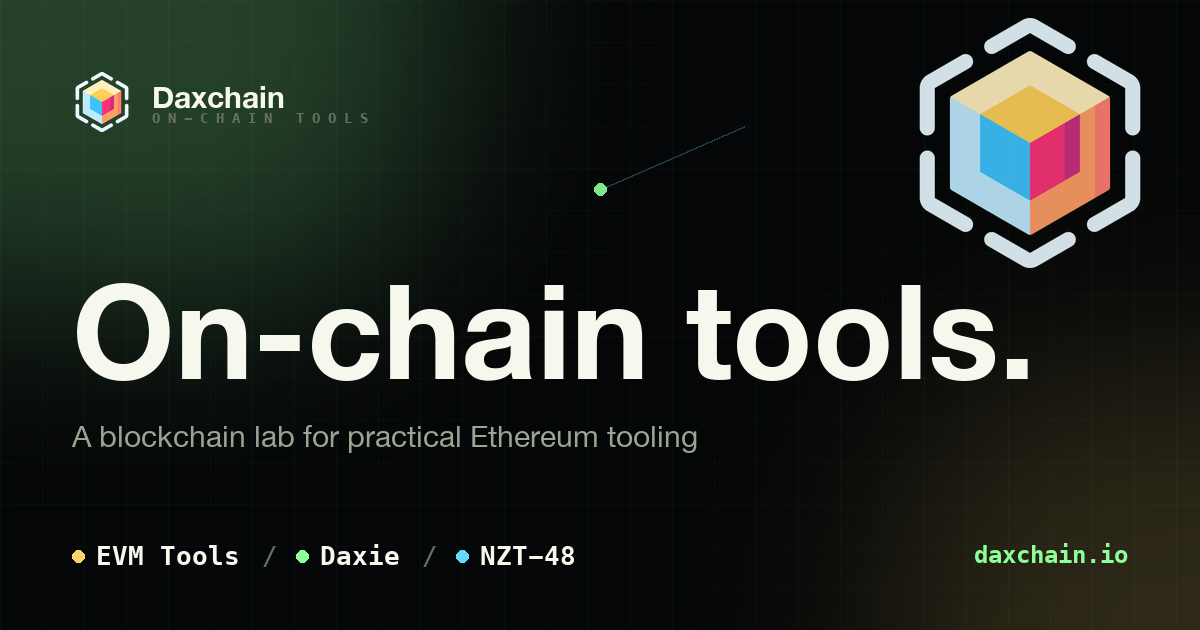
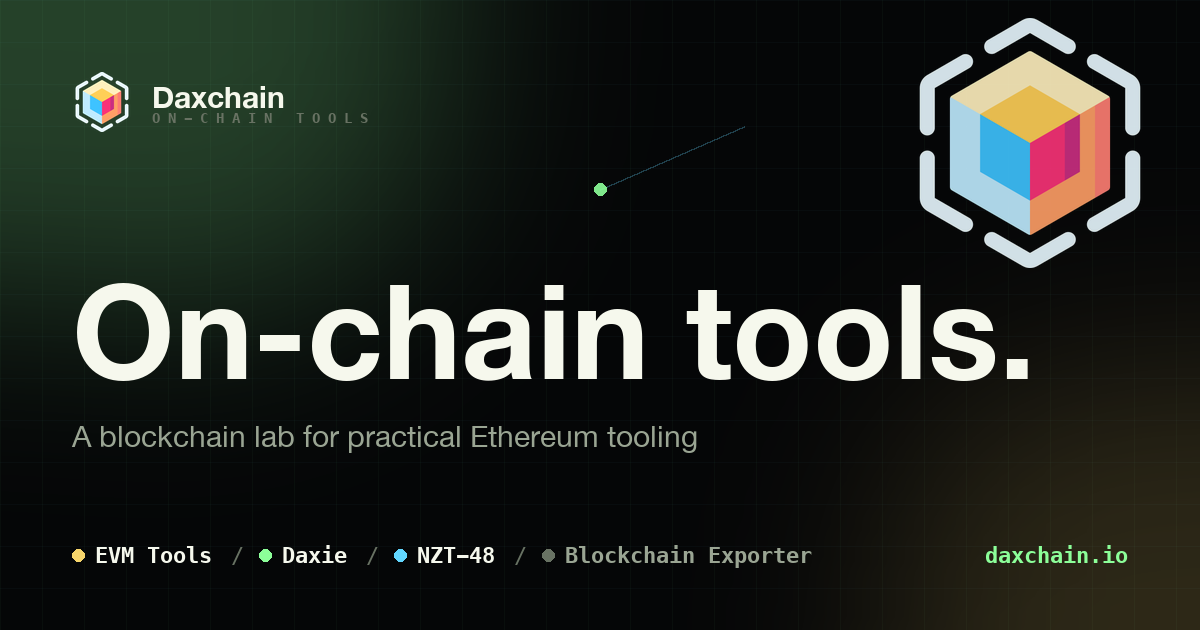
Surface Blockchain Exporter in social card and meta descriptions
Add the deprecated project everywhere it was previously omitted: a
fourth (muted) chip on the og-image social card, and the meta/OG/Twitter
descriptions plus og:image:alt. Keeps it visible to visitors and
crawlers while reading as the de-emphasized, deprecated one.

Changed region(s): [[0.0617, 0.8444, 0.6783, 0.9048], [0.8017, 0.8746, 0.9558, 0.9048]]

diff --git a/index.html b/index.html
@@ -6,7 +6,7 @@
     <title>Daxchain | EVM Tools, Daxie and NZT-48</title>
     <meta
       name="description"
-      content="Daxchain is a blockchain lab building practical Ethereum tooling: EVM Tools for on-chain observability, the Daxie wallet for AI agents, and the NZT-48 token."
+      content="Daxchain is a blockchain lab building practical Ethereum tools: EVM Tools, the AI-agent Daxie wallet, the NZT-48 token, and the deprecated Blockchain Exporter."
     >
     <link rel="canonical" href="https://daxchain.io/">
     <link rel="icon" href="/logo.png" type="image/png" sizes="any">
@@ -16,7 +16,7 @@
     <meta property="og:title" content="Daxchain | EVM Tools, Daxie and NZT-48">
     <meta
       property="og:description"
-      content="A small blockchain lab building practical Ethereum tooling — EVM Tools, the Daxie wallet for AI agents, and the NZT-48 token experiment."
+      content="A small blockchain lab building practical Ethereum tooling — EVM Tools, the Daxie wallet for AI agents, the NZT-48 token experiment, and the deprecated Blockchain Exporter."
     >
     <meta property="og:type" content="website">
     <meta property="og:url" content="https://daxchain.io/">
@@ -24,10 +24,10 @@
     <meta property="og:image" content="https://daxchain.io/og-image.png">
     <meta property="og:image:width" content="1200">
     <meta property="og:image:height" content="630">
-    <meta property="og:image:alt" content="Daxchain — a blockchain lab building EVM Tools, Daxie and NZT-48.">
+    <meta property="og:image:alt" content="Daxchain — a blockchain lab building EVM Tools, Daxie, NZT-48, and the deprecated Blockchain Exporter.">
     <meta name="twitter:card" content="summary_large_image">
     <meta name="twitter:title" content="Daxchain | EVM Tools, Daxie and NZT-48">
-    <meta name="twitter:description" content="A small blockchain lab building practical Ethereum tooling — EVM Tools, the Daxie wallet for AI agents, and the NZT-48 token experiment.">
+    <meta name="twitter:description" content="A small blockchain lab building practical Ethereum tooling — EVM Tools, the Daxie wallet for AI agents, the NZT-48 token experiment, and the deprecated Blockchain Exporter.">
     <meta name="twitter:image" content="https://daxchain.io/og-image.png">
     <script type="application/ld+json">
     {